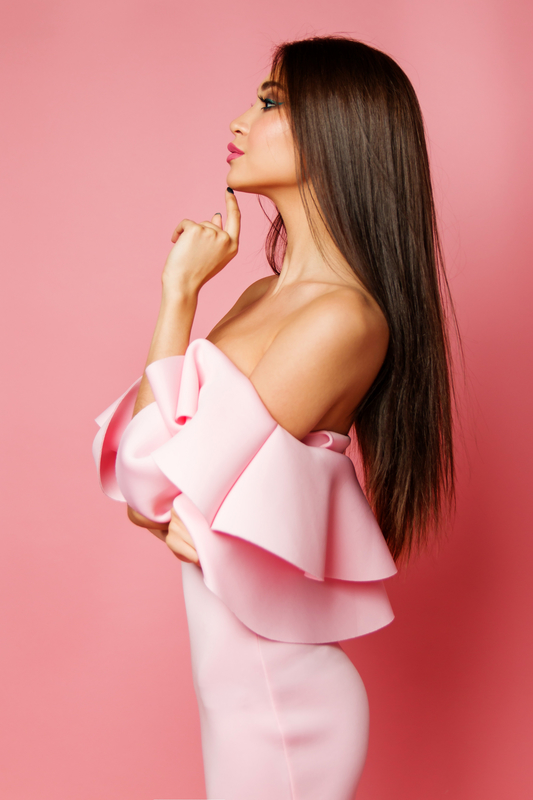
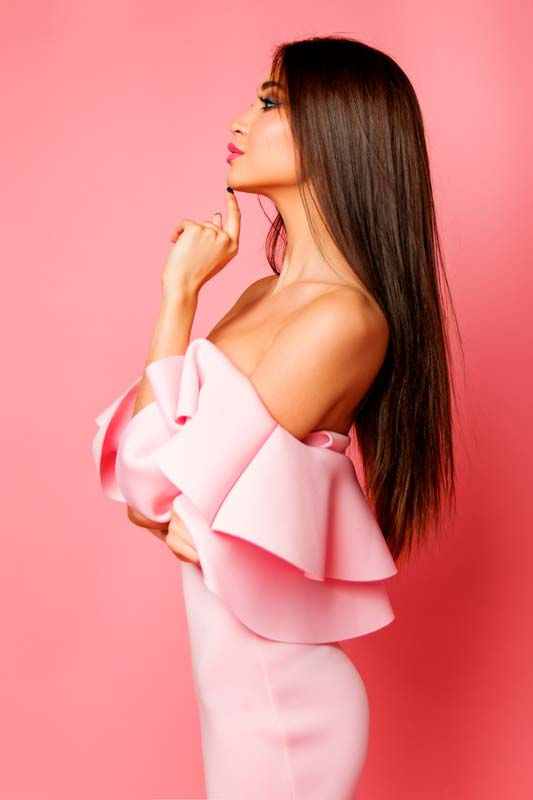
update performance

diff --git a/vipper.html b/vipper.html
@@ -94,7 +94,7 @@
 
     <main>
         <div class="bannere">
-            <img src="images/vipperbanner.png" alt="Vippe banner">
+            <img src="images/vipperbanner.jpg" alt="Vippe banner">
         </div>
 
 <div class="forsideoverskrifter">
@@ -123,7 +123,7 @@
 
                 <div class="vippeudpluk">
                     <div class="produktbox">
-                        <img class="produktimg" src="images/clooney.png" alt="Clooney Vipper">
+                        <img class="produktimg" src="images/clooney.jpg" alt="Clooney Vipper">
 
                         <p class="vippep">Clooney</p>
                         <p class="vippep">3D Mink Lashes</p>
@@ -133,7 +133,7 @@
                       
                 <div class="vippeudpluk">
                     <div class="produktbox">
-                        <img class="produktimg" src="images/cactus.png" alt="Cactus Vipper">
+                        <img class="produktimg" src="images/cactus.jpg" alt="Cactus Vipper">
                         <p class="vippep">Cactus</p>
                         <p class="vippep">3D Mink Lashes</p>
                         <p class="vippep">189 kr</p>
@@ -142,7 +142,7 @@
                 
                 <div class="vippeudpluk">
                     <div class="produktbox">
-                        <img class="produktimg" src="images/baby.png" alt="Baby Vipper">
+                        <img class="produktimg" src="images/baby.jpg" alt="Baby Vipper">
                         <p class="vippep">Baby</p>
                         <p class="vippep">Silk Lashes</p>
                         <p class="vippep">159 kr</p>
@@ -154,7 +154,7 @@
             <section class="vipper1side">
                 <div class="vippeudpluk">
                     <div class="produktbox">
-                        <img class="produktimg" src="images/diva.png" alt="Diva Vipper">
+                        <img class="produktimg" src="images/diva.jpg" alt="Diva Vipper">
                         <p class="vippep">Diva</p>
                         <p class="vippep">3D Mink Lashes</p>
                         <p class="vippep">189 kr</p>
@@ -164,7 +164,7 @@
 
                 <div class="vippeudpluk">
                     <div class="produktbox">
-                        <img class="produktimg" src="images/coco.png" alt="Coco Vipper">
+                        <img class="produktimg" src="images/coco.jpg" alt="Coco Vipper">
 
                         <p class="vippep">Coco</p>
                         <p class="vippep">Silk Lashes</p>
@@ -174,7 +174,7 @@
                       
                 <div class="vippeudpluk">
                     <div class="produktbox">
-                        <img class="produktimg" src="images/beaubeau.png" alt="Beau Beau Vipper">
+                        <img class="produktimg" src="images/beaubeau.jpg" alt="Beau Beau Vipper">
                         <p class="vippep">Beau Beau</p>
                         <p class="vippep">3D Mink Lashes</p>
                         <p class="vippep">189 kr</p>
@@ -183,7 +183,7 @@
                 
                 <div class="vippeudpluk">
                     <div class="produktbox">
-                        <img class="produktimg" src="images/kyria.png" alt="Kyria Vipper">
+                        <img class="produktimg" src="images/kyria.jpg" alt="Kyria Vipper">
                         <p class="vippep">Kyria</p>
                         <p class="vippep">3D Mink Lashes</p>
                         <p class="vippep">189 kr</p>
@@ -195,7 +195,7 @@
             <section class="vipper1side">
                 <div class="vippeudpluk">
                     <div class="produktbox">
-                        <img class="produktimg" src="images/lady.png" alt="Lady Vipper">
+                        <img class="produktimg" src="images/lady.jpg" alt="Lady Vipper">
                         <p class="vippep">Lady</p>
                         <p class="vippep">3D Mink Lashes</p>
                         <p class="vippep">189 kr</p>
@@ -205,7 +205,7 @@
 
                 <div class="vippeudpluk">
                     <div class="produktbox">
-                        <img class="produktimg" src="images/chila.png" alt="Chila Vipper">
+                        <img class="produktimg" src="images/chila.jpg" alt="Chila Vipper">
 
                         <p class="vippep">Chila</p>
                         <p class="vippep">3D Mink Lashes</p>
@@ -215,7 +215,7 @@
                       
                 <div class="vippeudpluk">
                     <div class="produktbox">
-                        <img class="produktimg" src="images/nightout.png" alt="Night Out Vipper">
+                        <img class="produktimg" src="images/nightout.jpg" alt="Night Out Vipper">
                         <p class="vippep">Night Out</p>
                         <p class="vippep">3D Mink Lashes</p>
                         <p class="vippep">189 kr</p>
@@ -224,7 +224,7 @@
                 
                 <div class="vippeudpluk">
                     <div class="produktbox">
-                        <img class="produktimg" src="images/lucy.png" alt="Lucy Vipper">
+                        <img class="produktimg" src="images/lucy.jpg" alt="Lucy Vipper">
                         <p class="vippep">Lucy</p>
                         <p class="vippep">Silk lashes</p>
                         <p class="vippep">169 kr</p>

diff --git a/karmavippe.html b/karmavippe.html
@@ -97,7 +97,7 @@
     
 </div>
     <section class="kobsection">
-            <img class="kobimg" src="images/karma.png" alt="Karma Vipper" width="40%">
+            <img class="kobimg" src="images/karma.jpg" alt="Karma Vipper">
             
             <div class="kob2">
                 <h2 class="koboverskrift">Karma<br>
@@ -111,10 +111,10 @@
                     </div>
                     
                 <div class="flereimgsection">
-                        <a href="#"> <img class="flereimg" src="images/karma.png" alt="Karma Vipper"></a>
-                        <a href="#"><img class="flereimg" src="images/karma.png" alt="Karma Vipper"></a>
-                        <a href="#"><img class="flereimg" src="images/karma.png" alt="Karma vipper"></a>
-                        <a href="#"><img class="flereimg" src="images/karma.png" alt="Karma Vipper"></a>
+                        <a href="#"> <img class="flereimg" src="images/karma.jpg" alt="Karma Vipper"></a>
+                        <a href="#"><img class="flereimg" src="images/karma.jpg" alt="Karma Vipper"></a>
+                        <a href="#"><img class="flereimg" src="images/karma.jpg" alt="Karma vipper"></a>
+                        <a href="#"><img class="flereimg" src="images/karma.jpg" alt="Karma Vipper"></a>
                     </div>
             </div>
         </section>
@@ -127,7 +127,7 @@
                 <div class="vippeudpluk">
                     <a href="duo.html">
                        <div class="produktbox">
-                            <img class="produktimg" src="images/duo.png" alt="Duo Vippelim">
+                            <img class="produktimg" src="images/duo.jpg" alt="Duo Vippelim">
                             <p class="vippep">Vippelim</p>
                             <p class="vippep">Duo</p>
                             <p class="vippep">79 kr</p>
@@ -139,7 +139,7 @@
                 <div class="vippeudpluk">
                     <a href="#">
                         <div class="produktbox">
-                            <img class="produktimg" src="images/paasaetter.png" alt="Vippe påsætter">
+                            <img class="produktimg" src="images/paasaetter.jpg" alt="Vippe påsætter">
                             <p class="vippep">Karma Charma</p>
                             <p class="vippep">Vippe påsætter</p>
                             <p class="vippep">49 kr</p>
@@ -150,7 +150,7 @@
                 <div class="vippeudpluk">
                     <a href="#">
                        <div class="produktbox">
-                            <img class="produktimg" src="images/cactus.png" alt="Cactus Vipper">
+                            <img class="produktimg" src="images/cactus.jpg" alt="Cactus Vipper">
                             <p class="vippep">Cactus</p>
                             <p class="vippep">3D Mink Lashes</p>
                             <p class="vippep">189 kr</p>
@@ -161,7 +161,7 @@
                 <div class="vippeudpluk">
                     <a href="#">
                        <div class="produktbox">
-                            <img class="produktimg" src="images/baby.png" alt="Baby Vipper">
+                            <img class="produktimg" src="images/baby.jpg" alt="Baby Vipper">
                             <p class="vippep">Baby</p>
                             <p class="vippep">Silk Lashes</p>
                             <p class="vippep">159 kr</p>

diff --git a/index.html b/index.html
@@ -96,7 +96,7 @@
 
     <main>
         <div class="bannere">
-        <img src="images/forsidebanner1.png" alt="forsidebanner" ></div>
+        <img src="images/forsidebanner2.jpg" alt="forsidebanner" ></div>
 
         
 
@@ -110,7 +110,7 @@
                 <div class="vippeudpluk">
                     <a href="karmavippe.html">
                         <div class="produktbox">
-                            <img class="produktimg" src="images/karma.png" alt="Karma Vipper">
+                            <img class="produktimg" src="images/karma.jpg" alt="Karma Vipper">
                             <p class="vippep">Karma</p>
                             <p class="vippep">3D Mink lashes</p>
                             <p class="vippep">189 kr</p>
@@ -121,7 +121,7 @@
                 <div class="vippeudpluk">
                     <a href="#">
                        <div class="produktbox">
-                            <img class="produktimg" src="images/clooney.png" alt="Clooney Vipper">
+                            <img class="produktimg" src="images/clooney.jpg" alt="Clooney Vipper">
 
                             <p class="vippep">Clooney</p>
                             <p class="vippep">3D Mink Lashes</p>
@@ -133,7 +133,7 @@
                 <div class="vippeudpluk">
                     <a href="#">
                        <div class="produktbox">
-                            <img class="produktimg" src="images/cactus.png" alt="Cactus Vipper">
+                            <img class="produktimg" src="images/cactus.jpg" alt="Cactus Vipper">
                             <p class="vippep">Cactus</p>
                             <p class="vippep">Mink Lashes</p>
                             <p class="vippep">189 kr</p>
@@ -144,7 +144,7 @@
                 <div class="vippeudpluk">
                     <a href="#">
                        <div class="produktbox">
-                            <img class="produktimg" src="images/baby.png" alt="Baby Vipper">
+                            <img class="produktimg" src="images/baby.jpg" alt="Baby Vipper">
                             <p class="vippep">Baby</p>
                             <p class="vippep">Silk Lashes</p>
                             <p class="vippep">159 kr</p>
@@ -165,7 +165,7 @@
 
     <div id="forsidecontentkvalitet">
         <section id="kvalitetsvipperboks">
-            <img id="kvalibillede" src="images/kvalitetsvipper.png" alt="Øjenvippe display">
+            <img id="kvalibillede" src="images/kvalitetsvipper.jpg" alt="Øjenvippe display">
                 
         <div id="kvalitext">
             <h2>KVALITETS VIPPER</h2>

diff --git a/omos.html b/omos.html
@@ -95,7 +95,7 @@
        
     <!--  -->
         <div class="bannere">
-            <img src="images/omosbanner.png" alt="om os banner">
+            <img src="images/omosbanner.jpg" alt="om os banner">
         </div>
 
        
@@ -103,13 +103,13 @@
         <section class="omkarma">
            <h2 id="omosoverskrift">PASSION FOR VIPPER</h2>
             <div id="om1">
-                <img class="omimg" src="images/vippepakke.png" alt="Øjenvippe pakke">
+                <img class="omimg" src="images/vippepakke.jpg" alt="Øjenvippe pakke">
                 <p class="omp1">I 2018 valgte Karoline at starte sin eget lille lashes produktion, hvor hun kunne designe hendes egne unikke styles. <br>
                 <br>
                 På kort tid er virksomheden vokset med hurtige skridt og du kan flere steder købe deres lash styles i saloner. Vipperne er blevet et hit indenfor beauty brancen netop fordi de er lavet af den fineste kvalitet og har en genbrugstid helt op til 25 gange. </p>
             </div>
             <div id="om2">
-                <img class="omimg" src="images/par.png" alt="Fotografi af par">
+                <img class="omimg" src="images/par.jpg" alt="Fotografi af par">
                 <p class="omp2">Alle Karma Charmas vipper er designet ud fra personlige oplevelser eller på special bestilling fra kunder som vi efterfølgende har fået lov at producere videre, så andre kan få samme gavn af de smukke designs.<br>
                 <br>
                 Hvert design er helt unikt og der ligger en historie bag dem alle. Der er ikke overladt noget til tilfældighederne, netop fordi karmaCharma designer ud fra egne oplevelser, følelser og erfaringer frem for hvad der er af trends på den pågældende tid. </p>

diff --git a/kontakt.html b/kontakt.html
@@ -114,15 +114,15 @@ meget gerne høre fra dig.</p>
     <div class="flexcontainer-kontaktikoner">
        
        <div id="sporgsmalikon">
-        <img src="images/kontakt-sp%C3%B8rgsm%C3%A5lstegn2.png" alt="sporgsmal">
+        <img src="images/kontaktsporgmolstegn1.png" alt="sporgsmal">
         </div>
         
         <div id="bobelikon">
-        <img src="images/convesionsmark2.png" alt="samtale">
+        <img src="images/convesionsmark2.jpg" alt="samtale">
         </div>
         
         <div id="checkikon">
-        <img src="images/checkmark2.png" alt="checkmark">
+        <img src="images/checkmark2.jpg" alt="checkmark">
         </div>
     </div>
     
@@ -141,7 +141,7 @@ meget gerne høre fra dig.</p>
         </label>
         <label>
             Telefon
-            <input type="'text" class="subject" name="subject" placeholder="Dit telefon nr.">
+            <input type="text" class="subject" name="subject" placeholder="Dit telefon nr.">
         </label>
         <label>
             Besked

diff --git a/vippelim.html b/vippelim.html
@@ -93,7 +93,7 @@
 
     <main>
         <div class="bannere">
-            <img src="images/forsidebanner.png" alt="forside banner">
+            <img src="images/forsidebanner.jpg" alt="forside banner">
         </div>
 
 <div class="forsideoverskrifter">
@@ -109,7 +109,7 @@
                 <div class="vippeudpluk">
                     <a href="duo.html">
                        <div class="produktbox">
-                            <img class="produktimg" src="images/duo.png" alt="Gennemsigtig Vippelim">
+                            <img class="produktimg" src="images/duo.jpg" alt="Gennemsigtig Vippelim">
                             <p class="vippep">Vippelim</p>
                             <p class="vippep">DUO Gennemsigtig</p>
                             <p class="vippep">79 kr</p>

diff --git a/kurv.html b/kurv.html
@@ -98,7 +98,7 @@
     <main>
     
            <div class="bannere">
-            <img src="images/kurvbanner.png" alt="kurv banner" >
+            <img src="images/kurvbanner.jpg" alt="kurv banner" >
 
         </div>
         

diff --git a/guide.html b/guide.html
@@ -94,7 +94,7 @@
 
     <main>
         <div class="bannere">
-            <img src="images/guidebanner.png" alt="guide banner" >
+            <img src="images/guidebanner.jpg" alt="guide banner" >
 
         </div>
 

diff --git a/css/style.css b/css/style.css
@@ -837,8 +837,11 @@ video{
 
  }
 
+
+
  .kobimg {
      padding: 25px;
+      width: 40%;
  }
 
 
